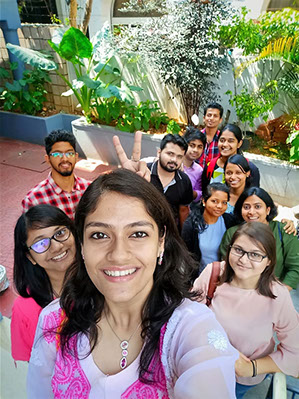
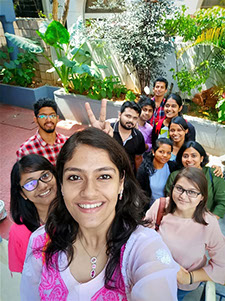
Ravishankar Group Webpage

diff --git a/in-the-news.html b/in-the-news.html
@@ -11,7 +11,7 @@
   <title>In the News</title>
   <!-- CSS -->
   <link rel="stylesheet" type="text/css" href="css/site_global.css?494395278"/>
-  <link rel="stylesheet" type="text/css" href="css/in-the-news.css?484109303" id="pagesheet"/>
+  <link rel="stylesheet" type="text/css" href="css/in-the-news.css?156207018" id="pagesheet"/>
   <!-- Other scripts -->
   <script type="text/javascript">
    document.documentElement.className += ' js';
@@ -58,9 +58,15 @@
     </div>
     <div class="clearfix colelem" id="pu8041"><!-- group -->
      <div class="clip_frame grpelem" id="u8041"><!-- image -->
-      <img class="block" id="u8041_img" src="images/img-20190216-wa0000.jpg" alt="" width="299" height="399"/>
+      <img class="block" id="u8041_img" src="images/img-20190216-wa0000.jpg" alt="" width="225" height="301"/>
      </div>
-     <img class="grpelem" id="u8047-8" alt="Feb-16, 2019: Dipanwita graduates and goes for a postdoc at NTNU, Norway. nm2 group congratulates her and wishes all the very best for her future endeavors. On the left is a snap of some of the group members after her farewell treat. " width="704" height="154" src="images/u8047-8.png"/><!-- rasterized frame -->
+     <img class="grpelem" id="u8047-8" alt="Feb-16, 2019: Dipanwita graduates and goes for a postdoc at NTNU, Norway. nm2 group congratulates her and wishes all the very best for her future endeavors. On the left is a snap of some of the group members after her farewell treat. " width="782" height="154" src="images/u8047-8.png"/><!-- rasterized frame -->
+    </div>
+    <div class="clearfix colelem" id="pu8201"><!-- group -->
+     <div class="clip_frame grpelem" id="u8201"><!-- image -->
+      <img class="block" id="u8201_img" src="images/img_20190725_174840.jpg" alt="" width="357" height="218"/>
+     </div>
+     <img class="grpelem" id="u8207-10" alt="July-23, 2019: Ahin will be leaving for his next postdoc in August-2019. nm2 group went out for a farewell lunch. On the left is a post-lunch snap of the group near CVH, IISc." width="652" height="116" src="images/u8207-10.png"/><!-- rasterized frame -->
     </div>
     <a class="nonblock nontext Button rounded-corners clearfix colelem" id="buttonu8048" href="old-news.html"><!-- container box --><img class="grpelem" id="u8049" alt="Archive" src="images/blank.gif"/><!-- state-based BG images --></a>
     <div class="verticalspacer"></div>

diff --git a/css/in-the-news.css b/css/in-the-news.css
@@ -1,7 +1,7 @@
 .version.in_the_news /* version checker */
 {
-	color: #00001C;
-	background-color: #DAEBF7;
+	color: #000009;
+	background-color: #4F87AA;
 }
 
 .html
@@ -13,7 +13,7 @@
 {
 	z-index: 1;
 	width: 1020px;
-	min-height: 930.9500000000062px;
+	min-height: 1143.9500000000062px;
 	background-image: none;
 	border-style: none;
 	border-color: #000000;
@@ -403,7 +403,7 @@
 #u8041
 {
 	z-index: 50;
-	width: 299px;
+	width: 225px;
 	border-width: 1px;
 	border-style: solid;
 	border-color: #000000;
@@ -422,8 +422,41 @@
 	vertical-align: top;
 	position: relative;
 	margin-right: -10000px;
-	margin-top: 75px;
-	left: 307px;
+	margin-top: 74px;
+	left: 234px;
+}
+
+#pu8201
+{
+	width: 0.01px;
+	margin-left: 5px;
+	margin-top: 31px;
+}
+
+#u8201
+{
+	z-index: 64;
+	width: 357px;
+	border-width: 1px;
+	border-style: solid;
+	border-color: #000000;
+	background-color: transparent;
+	margin-bottom: -1px;
+	position: relative;
+	margin-right: -10000px;
+	margin-top: -1px;
+	left: -1px;
+}
+
+#u8207-10
+{
+	z-index: 66;
+	display: block;
+	vertical-align: top;
+	position: relative;
+	margin-right: -10000px;
+	margin-top: 51px;
+	left: 364px;
 }
 
 #buttonu8048
@@ -435,7 +468,7 @@
 	border-radius: 10px;
 	padding-bottom: 9px;
 	margin-left: 436px;
-	margin-top: 39px;
+	margin-top: 100px;
 	position: relative;
 }
 
@@ -444,7 +477,7 @@
 	background-color: #545454;
 	width: 148px;
 	min-height: 0px;
-	margin: 39px 0px 0px 436px;
+	margin: 100px 0px 0px 436px;
 }
 
 #u8049
@@ -468,7 +501,7 @@
 #u4757-4
 {
 	z-index: 46;
-	margin-top: 37px;
+	margin-top: 38px;
 	position: relative;
 }
 
